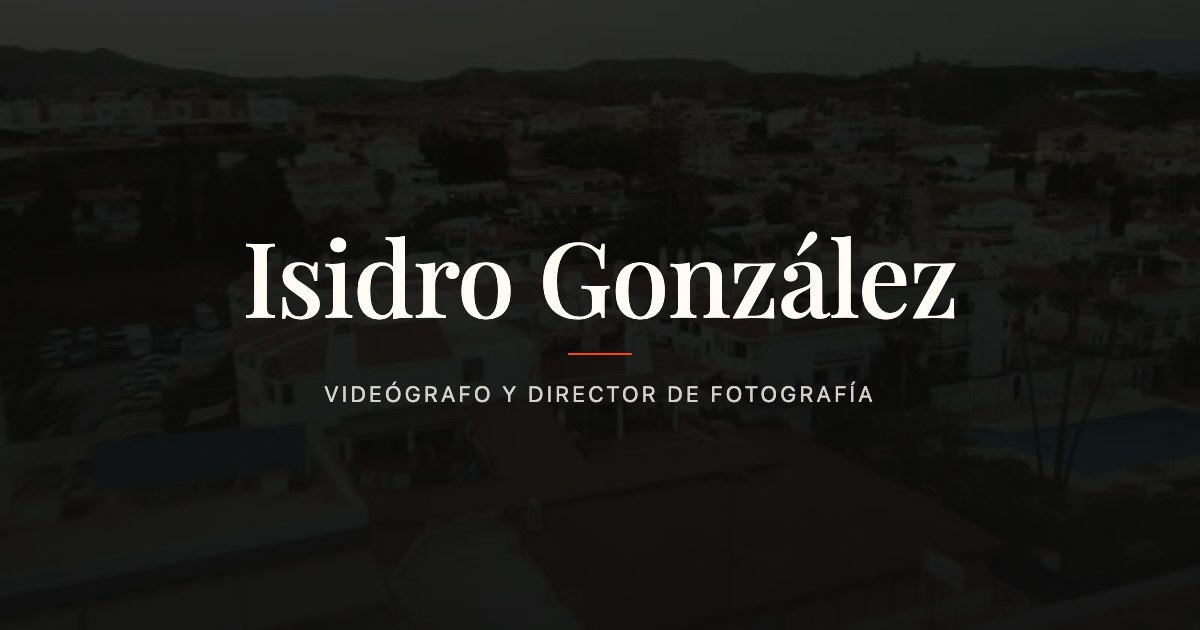
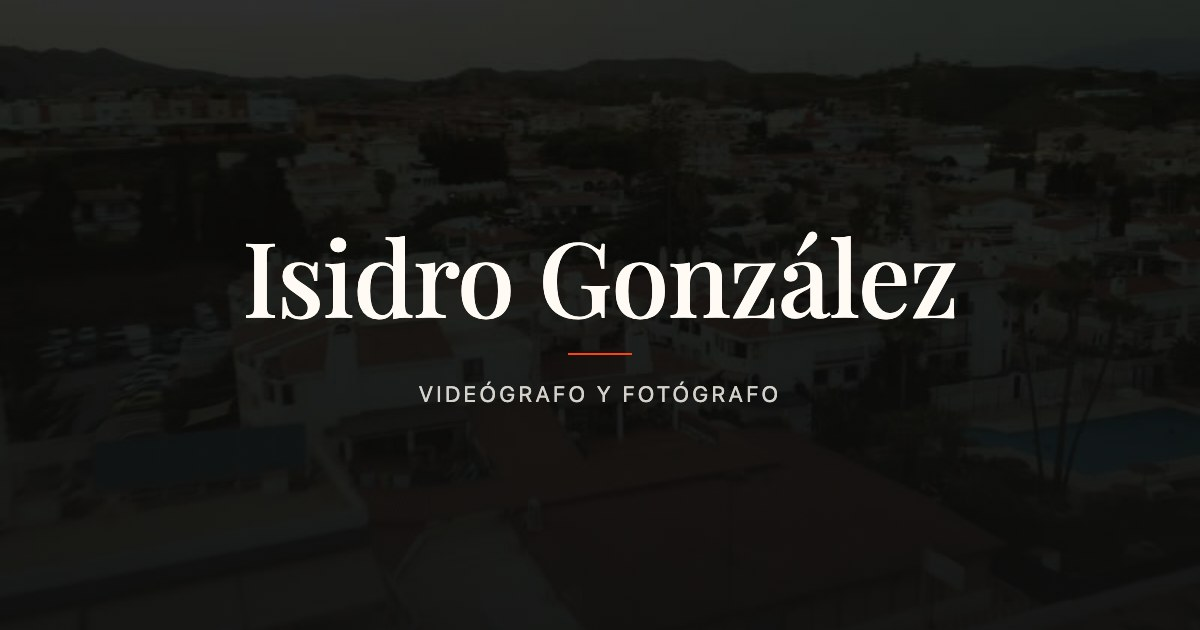
"Videógrafo y fotógrafo" en toda la web, fuera "director de fotografía"
Cambiado en los once sitios donde salía:

  · js/config.js — el lema, que es el que se ve bajo el nombre en la
    portada y de donde tiran las páginas secundarias
  · index.html — descripción y el <h1> que leen los buscadores y los
    lectores de pantalla
  · las cinco páginas — og:image:alt
  · sobre-mi.html — descripción, og:description y el servicio de la
    lista lateral, que ponía "Dirección de fotografía" y ahora pone
    "Fotografía"

Y sobre todo posters/compartir.jpg, la imagen que sale al mandar el
enlace por WhatsApp: llevaba el texto antiguo escrito dentro. Está
regenerada.

Repasado que no queda ni "director de fotografía" ni "dirección de
fotografía" en ningún HTML ni JS, y que las frases a media oración
mantienen la minúscula ("Isidro González, videógrafo y fotógrafo").

Changed region(s): [[0.2775, 0.6032, 0.74, 0.6635]]

diff --git a/sobre-mi.html b/sobre-mi.html
@@ -4,7 +4,7 @@
 <meta charset="utf-8">
 <meta name="viewport" content="width=device-width, initial-scale=1, viewport-fit=cover">
 <title>Sobre mí — Isidro González</title>
-<meta name="description" content="Quién es Isidro González: videógrafo y director de fotografía.">
+<meta name="description" content="Quién es Isidro González: videógrafo y fotógrafo.">
 <meta name="theme-color" content="#fffbf4">
 
 <!-- Imagen y textos al compartir el enlace (WhatsApp, Instagram, X…).
@@ -16,11 +16,11 @@
 <meta property="og:locale" content="es_ES">
 <meta property="og:url" content="https://isidrogonzalez.vercel.app/sobre-mi.html">
 <meta property="og:title" content="Sobre mí — Isidro González">
-<meta property="og:description" content="Quién es Isidro González: videógrafo y director de fotografía.">
+<meta property="og:description" content="Quién es Isidro González: videógrafo y fotógrafo.">
 <meta property="og:image" content="https://isidrogonzalez.vercel.app/posters/compartir.jpg">
 <meta property="og:image:width" content="1200">
 <meta property="og:image:height" content="630">
-<meta property="og:image:alt" content="Isidro González — Videógrafo y director de fotografía">
+<meta property="og:image:alt" content="Isidro González — Videógrafo y fotógrafo">
 <meta name="twitter:card" content="summary_large_image">
 
 <link rel="icon" href="favicon.svg" type="image/svg+xml">
@@ -78,7 +78,7 @@
         <div class="bloque-datos">
           <h2 class="type-small">Servicios</h2>
           <ul>
-            <li>Dirección de fotografía</li>
+            <li>Fotografía</li>
             <li>Vídeo publicitario</li>
             <li>Videoclip musical</li>
             <li>Eventos y bodas</li>

diff --git a/index.html b/index.html
@@ -4,7 +4,7 @@
 <meta charset="utf-8">
 <meta name="viewport" content="width=device-width, initial-scale=1, viewport-fit=cover">
 <title>Isidro González — Videógrafo</title>
-<meta name="description" content="Isidro González, videógrafo y director de fotografía. Portfolio de trabajos audiovisuales.">
+<meta name="description" content="Isidro González, videógrafo y fotógrafo. Portfolio de trabajos audiovisuales.">
 <meta name="theme-color" content="#fffbf4">
 
 <!-- Imagen y textos al compartir el enlace (WhatsApp, Instagram, X…).
@@ -20,7 +20,7 @@
 <meta property="og:image" content="https://isidrogonzalez.vercel.app/posters/compartir.jpg">
 <meta property="og:image:width" content="1200">
 <meta property="og:image:height" content="630">
-<meta property="og:image:alt" content="Isidro González — Videógrafo y director de fotografía">
+<meta property="og:image:alt" content="Isidro González — Videógrafo y fotógrafo">
 <meta name="twitter:card" content="summary_large_image">
 
 
@@ -33,7 +33,7 @@
 </head>
 <body>
 
-  <h1 class="sr-only">Isidro González — Videógrafo y director de fotografía</h1>
+  <h1 class="sr-only">Isidro González — Videógrafo y fotógrafo</h1>
 
   <!-- Escena del bucle infinito -->
   <main class="escena">

diff --git a/categoria.html b/categoria.html
@@ -20,7 +20,7 @@
 <meta property="og:image" content="https://isidrogonzalez.vercel.app/posters/compartir.jpg">
 <meta property="og:image:width" content="1200">
 <meta property="og:image:height" content="630">
-<meta property="og:image:alt" content="Isidro González — Videógrafo y director de fotografía">
+<meta property="og:image:alt" content="Isidro González — Videógrafo y fotógrafo">
 <meta name="twitter:card" content="summary_large_image">
 
 <link rel="icon" href="favicon.svg" type="image/svg+xml">

diff --git a/contacto.html b/contacto.html
@@ -20,7 +20,7 @@
 <meta property="og:image" content="https://isidrogonzalez.vercel.app/posters/compartir.jpg">
 <meta property="og:image:width" content="1200">
 <meta property="og:image:height" content="630">
-<meta property="og:image:alt" content="Isidro González — Videógrafo y director de fotografía">
+<meta property="og:image:alt" content="Isidro González — Videógrafo y fotógrafo">
 <meta name="twitter:card" content="summary_large_image">
 
 <link rel="icon" href="favicon.svg" type="image/svg+xml">

diff --git a/fotos.html b/fotos.html
@@ -20,7 +20,7 @@
 <meta property="og:image" content="https://isidrogonzalez.vercel.app/posters/compartir.jpg">
 <meta property="og:image:width" content="1200">
 <meta property="og:image:height" content="630">
-<meta property="og:image:alt" content="Isidro González — Videógrafo y director de fotografía">
+<meta property="og:image:alt" content="Isidro González — Videógrafo y fotógrafo">
 <meta name="twitter:card" content="summary_large_image">
 
 <link rel="icon" href="favicon.svg" type="image/svg+xml">

diff --git a/js/config.js b/js/config.js
@@ -5,7 +5,7 @@
 
 const CONFIG = {
   nombre: "Isidro González",
-  lema: "Videógrafo y director de fotografía.",
+  lema: "Videógrafo y fotógrafo.",
 
   contacto: {
     email: "Isiglez01@gmail.com",
